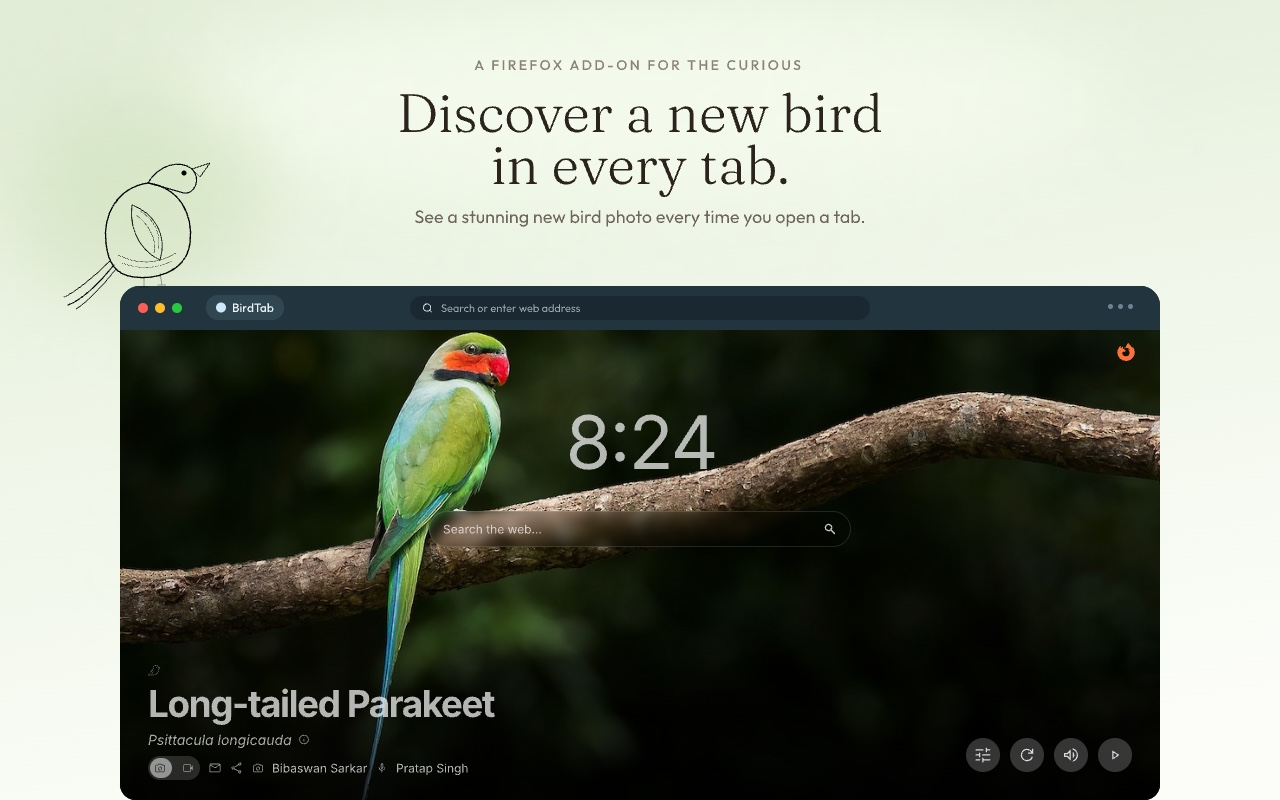
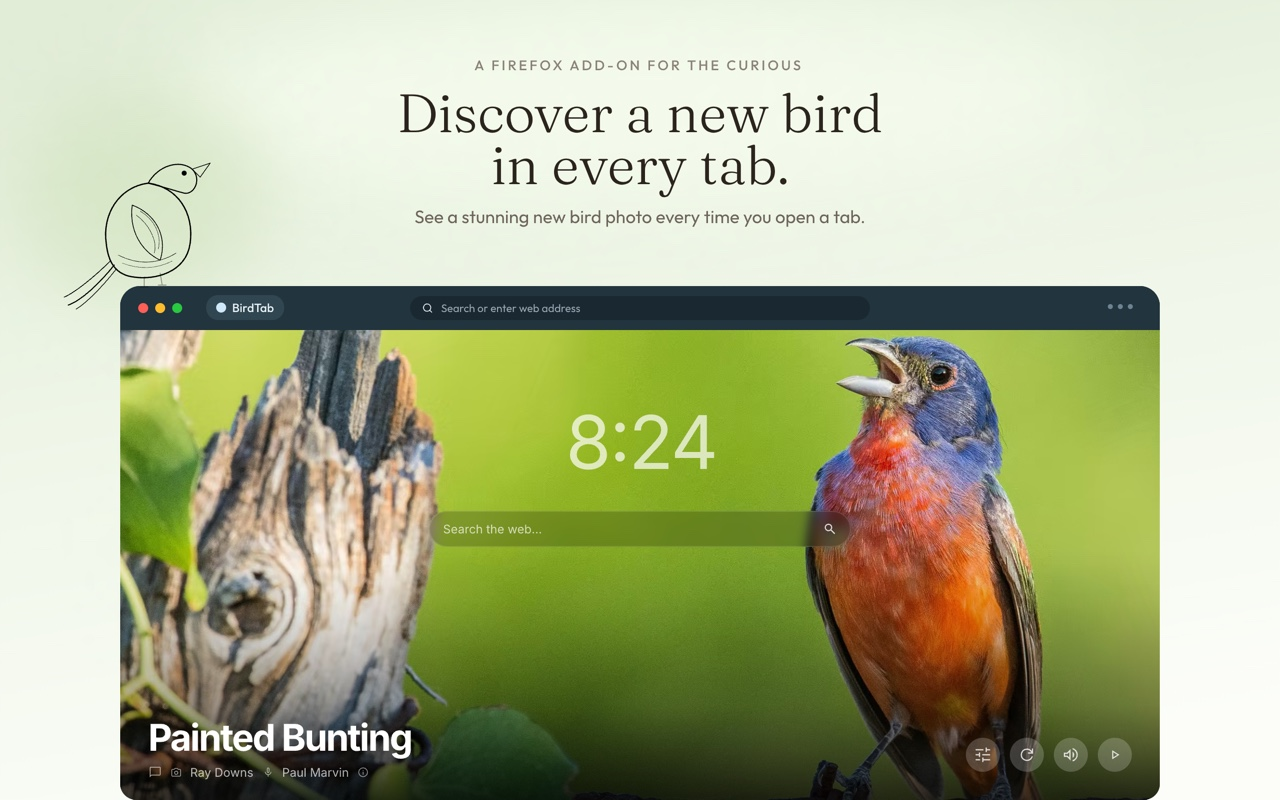
Store screenshots: match 2.1.2 with new birds
All three stores' images came from Pen frames last edited before 2.0.0,
so they still showed the photo/video toggle, the share icon and the
scientific-name line. They are regenerated from the master Pen file, now
with the app's UI as shared components, so a future app change is one
edit there (birdtab-marketing/pencil-documents/store-screenshots/README.md).

The birds are now ones the app serves, with permissive photo licences:
Painted Bunting, Snowy Owl, Indian Roller, Rainbow Bee-eater and, in the
quiz, Blue-and-yellow Macaw. Names follow the app (French and Chinese
localized, English elsewhere) and Arabic is right-to-left like the app.

- screenshots/firefox/amo: the five AMO images, to upload in place of the
  2026-10-15 set (AMO_LISTING.md says so)
- screenshots/chrome, screenshots/edge: the English sets as
  feature-image-1..5.png, replacing the 2024 screenshots

diff --git a/webstore/firefox/AMO_LISTING.md b/webstore/firefox/AMO_LISTING.md
@@ -43,11 +43,13 @@ see the English listing.
 - Icon: the BirdTab icon from the manifest (unchanged).
 - Screenshots: one set for all languages. AMO does not allow per-language
   images, only per-language captions.
-  - Uploaded: `extension/screenshots/firefox/amo/feature-image-1..5.jpg`
-    (1280x800, English).
+  - Files: `extension/screenshots/firefox/amo/feature-image-1..5.jpg`
+    (1280x800, English). Regenerated on 2026-10-17 to match 2.1.2 (new birds,
+    current info panel and quiz); upload them to replace the 2026-10-15 set.
   - Source design: `birdtab-marketing/pencil-documents/birdtab-marketing-edge.pen`,
-    frames "Firefox <Language>" (copies of the Edge frames with a Firefox
-    eyebrow and the Firefox logo in the mock browser bar).
+    frames "Firefox · <Language>" (copies of the Edge frames with a Firefox
+    eyebrow and no top-right shortcut, which Firefox doesn't have). How to
+    update and re-export: `birdtab-marketing/pencil-documents/store-screenshots/README.md`.
   - Exports for every language: `birdtab-marketing/firefox/light-1280x800-png/<Language>/`
     and `.../light-1280x800/<Language>/` (JPG). Only English is used on AMO.
     Dark variants and promo tiles were not made for Firefox: AMO has no slot
